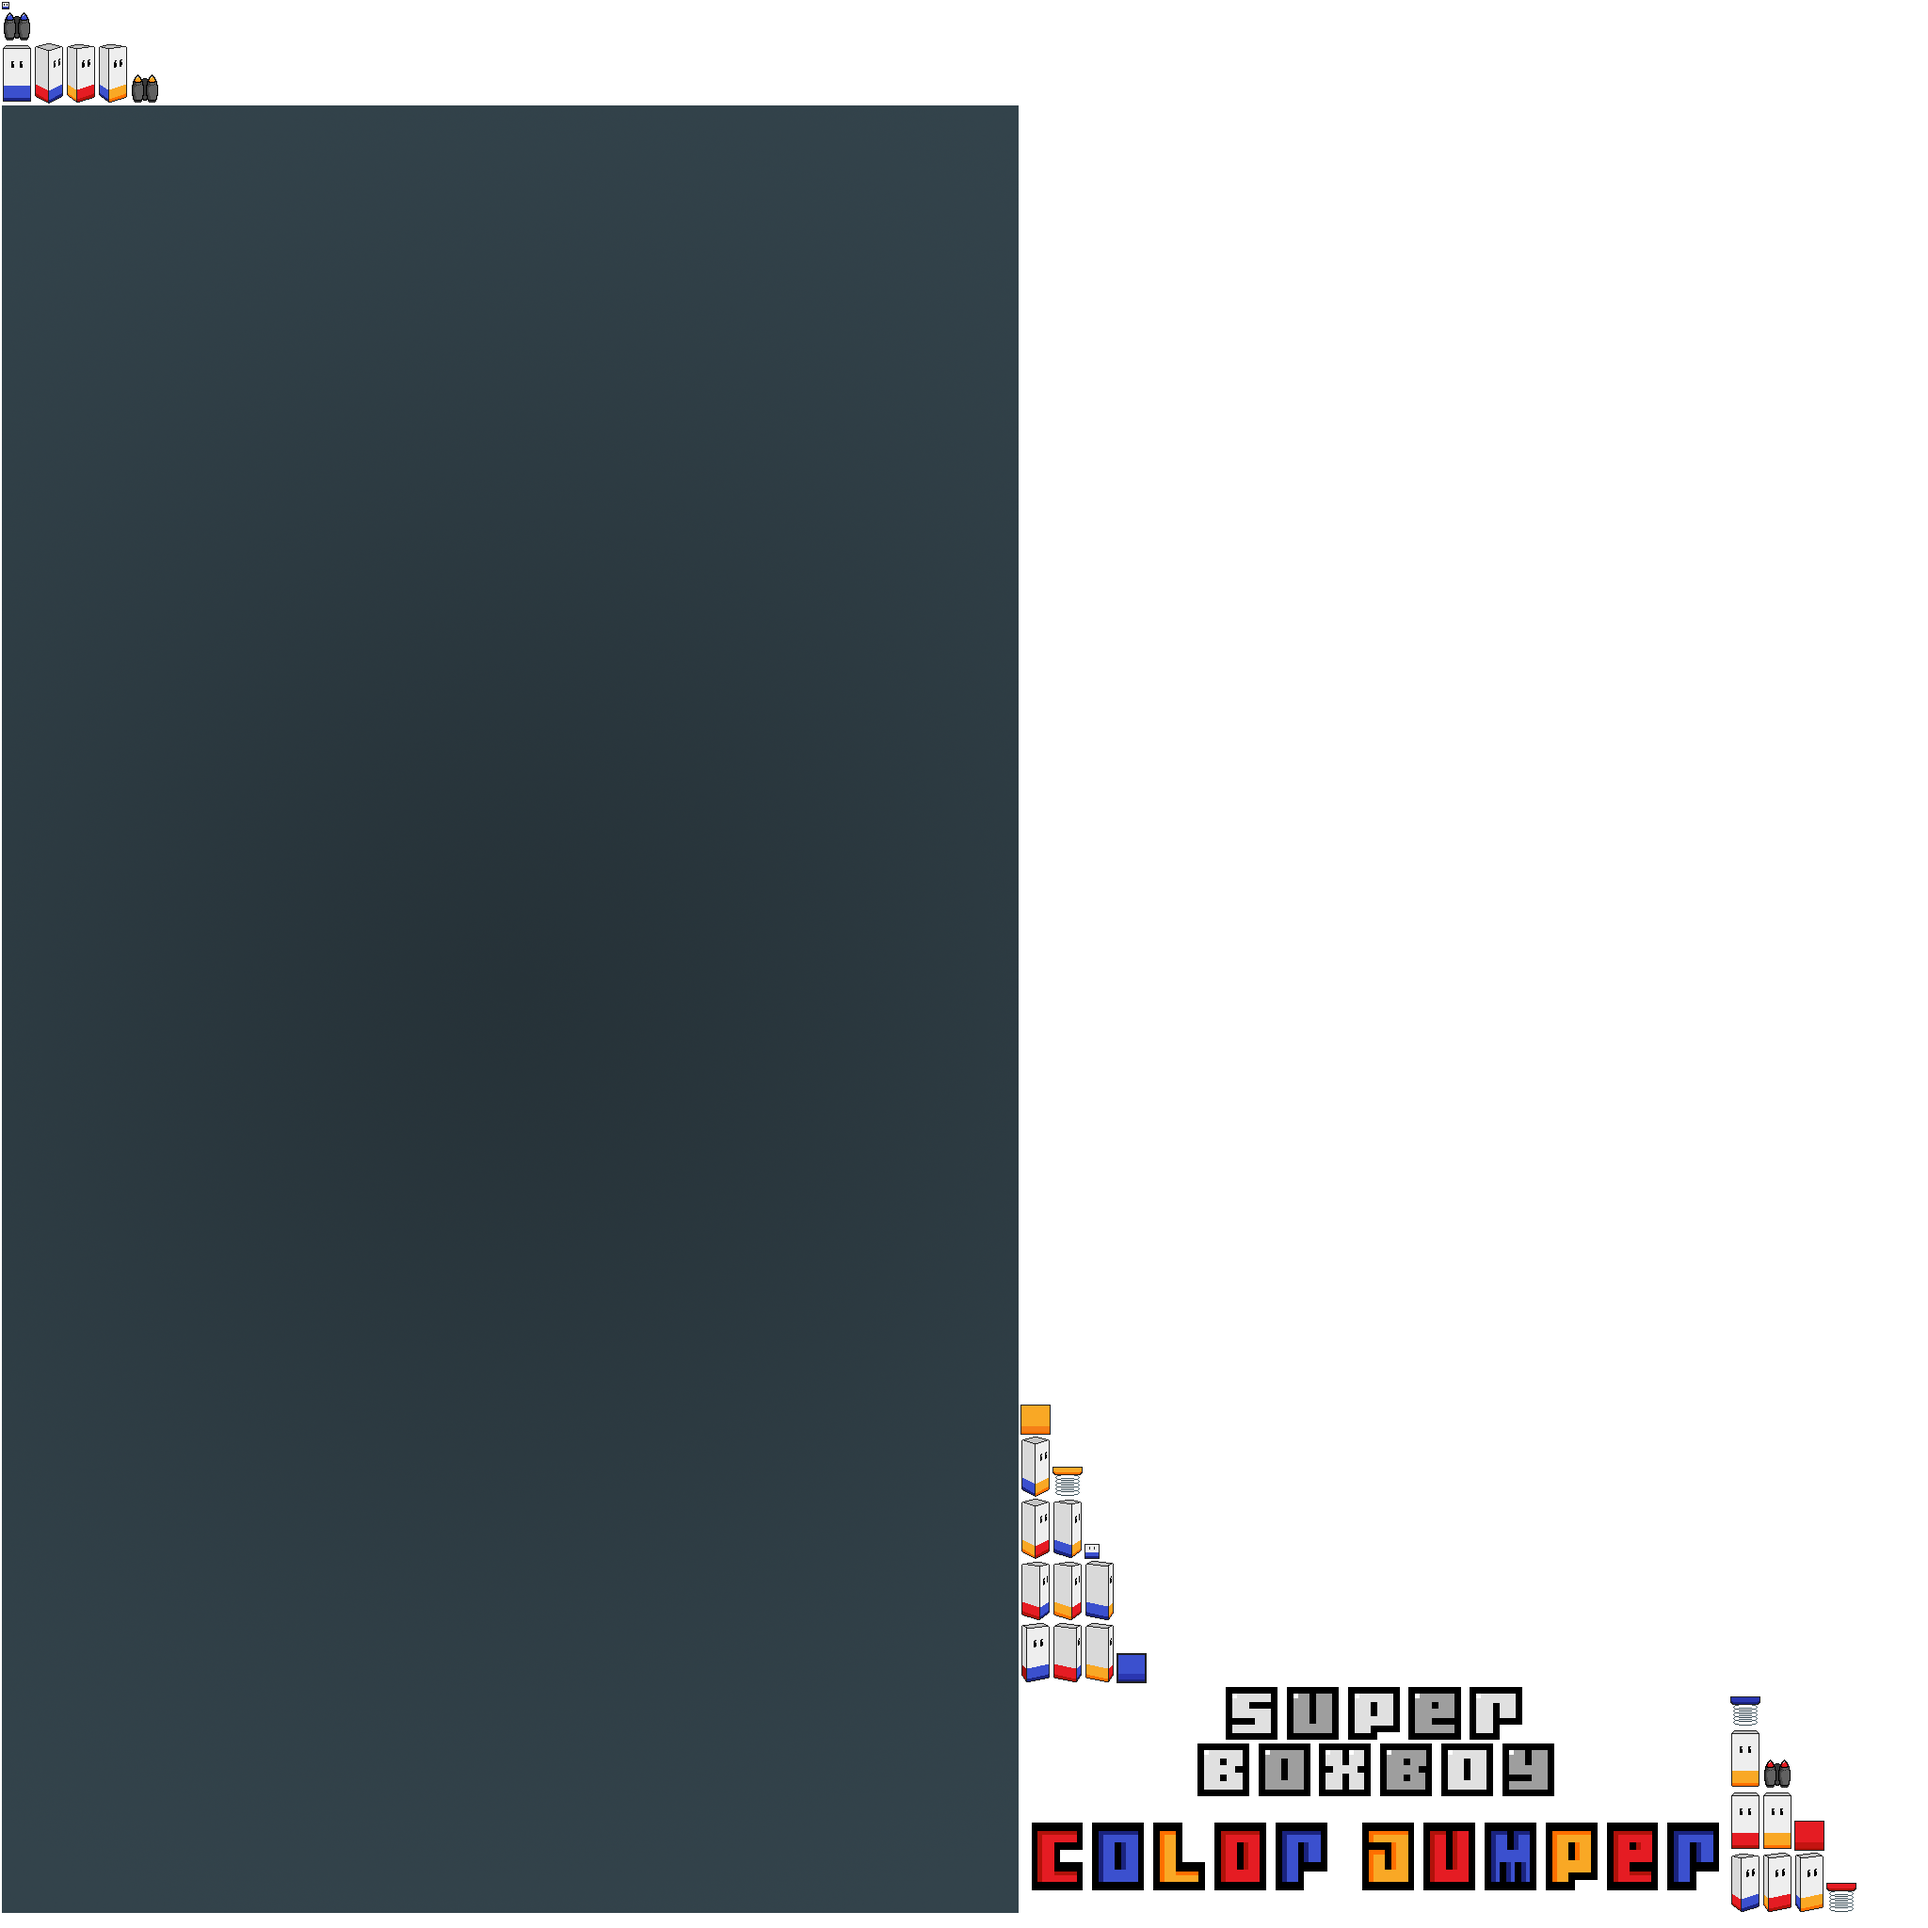
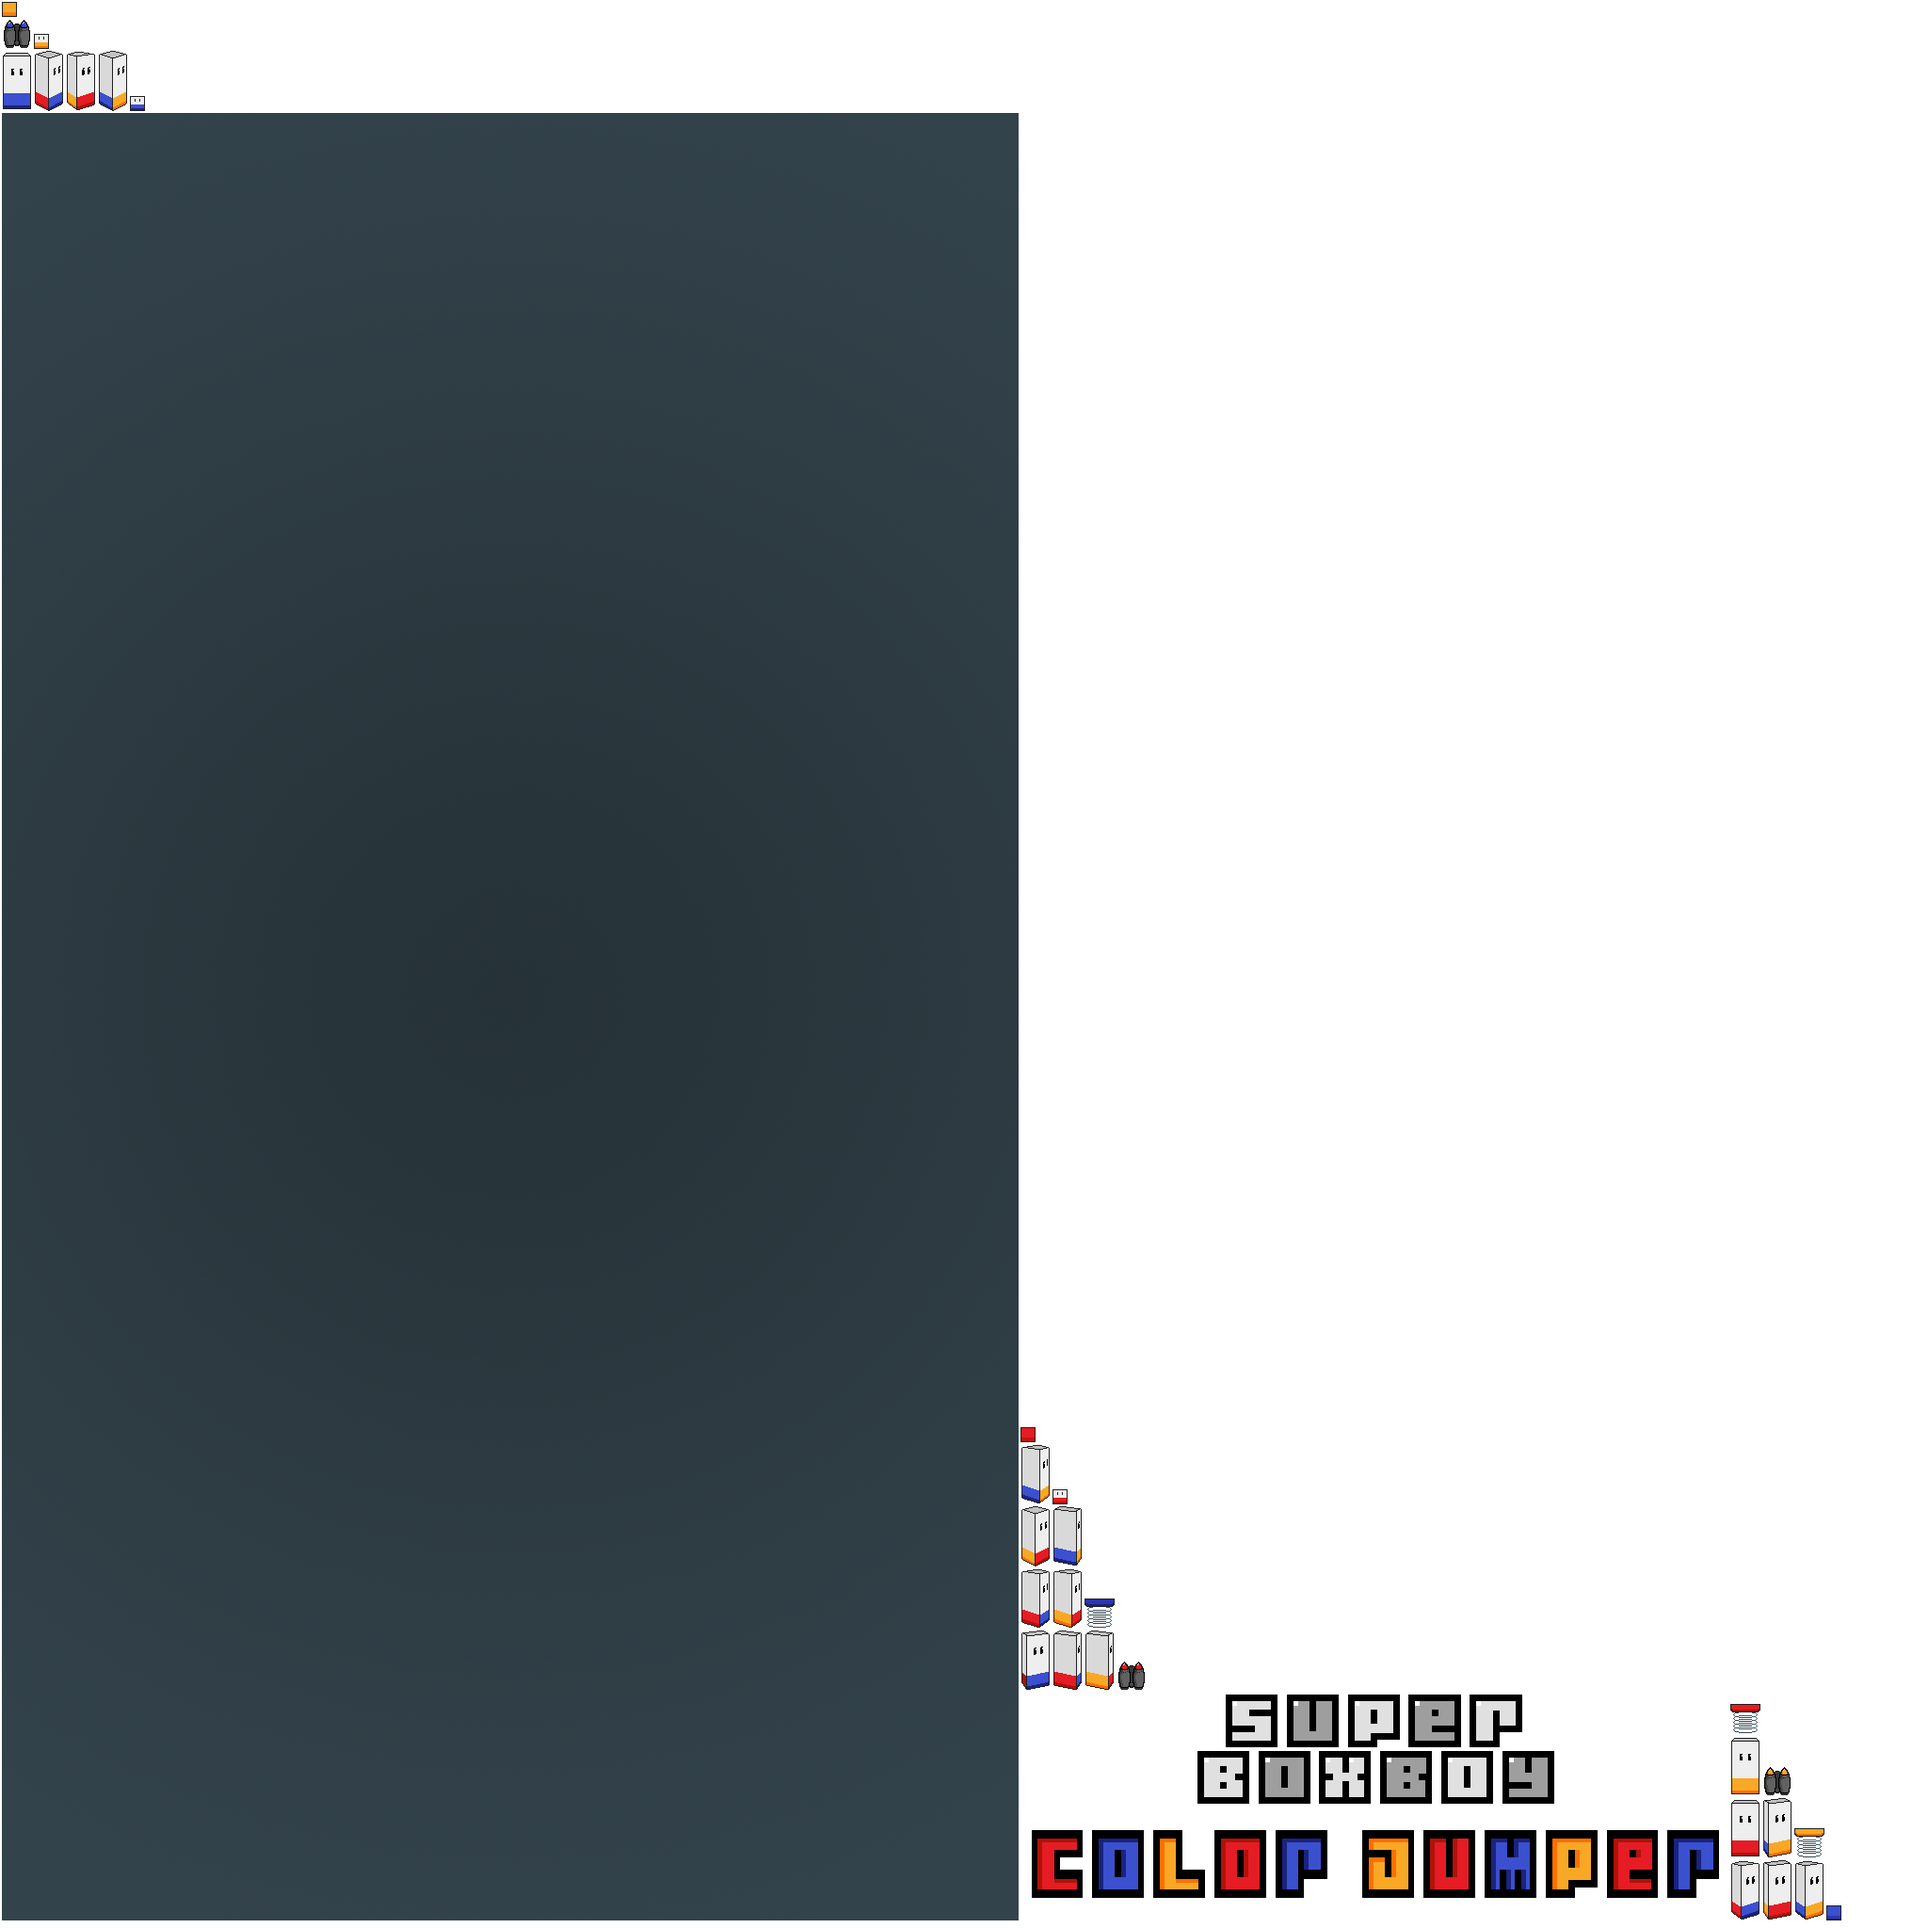
Fix menus screen

Changed region(s): [[0.0, 0.875, 0.9688, 1.0], [0.0, 0.0, 0.5312, 0.0625], [0.5312, 0.7188, 0.5938, 0.875]]

diff --git a/core/src/com/lan/jumper/ui/GameHud.java b/core/src/com/lan/jumper/ui/GameHud.java
@@ -5,15 +5,20 @@ import com.badlogic.gdx.graphics.Color;
 import com.badlogic.gdx.graphics.g2d.SpriteBatch;
 import com.badlogic.gdx.scenes.scene2d.Actor;
 import com.badlogic.gdx.scenes.scene2d.Stage;
+import com.badlogic.gdx.scenes.scene2d.ui.Button;
+import com.badlogic.gdx.scenes.scene2d.ui.ImageButton;
 import com.badlogic.gdx.scenes.scene2d.ui.Label;
 import com.badlogic.gdx.scenes.scene2d.ui.Skin;
 import com.badlogic.gdx.scenes.scene2d.ui.Table;
+import com.badlogic.gdx.scenes.scene2d.utils.ChangeListener;
 import com.badlogic.gdx.utils.Align;
 import com.badlogic.gdx.utils.Logger;
 import com.badlogic.gdx.utils.viewport.Viewport;
 import com.lan.jumper.assets.AssetDescriptors;
+import com.lan.jumper.config.GameConfig;
 import com.lan.jumper.game.ColorJumperGame;
 import com.lan.jumper.screen.GameController;
+import com.lan.jumper.screen.MenuScreen;
 
 public class GameHud {
     private static final Logger log = new Logger(GameHud.class.getSimpleName(), Logger.DEBUG);
@@ -28,6 +33,7 @@ public class GameHud {
     private GameController controller;
 
     private Label scoreLabel;
+    private Button backButton;
 
     public GameHud(ColorJumperGame game, GameController controller, Viewport viewport) {
         this.game = game;
@@ -39,6 +45,7 @@ public class GameHud {
         skin = assetManager.get(AssetDescriptors.SKIN);
 
         scoreLabel = createRetryButton();
+        backButton = createBackButton();
 
         stage.addActor(createUi());
         stage.setDebugAll(DEBUG);
@@ -52,17 +59,32 @@ public class GameHud {
         Label label = new Label("", skin);
         label.setAlignment(Align.left);
         label.setStyle(labelStyle);
-        label.setFontScale(0.8f);
+        label.setFontScale(1.1f);
 
         return label;
+    }
+
+    private Button createBackButton() {
+        Button button = new Button(skin, "back");
+        button.addListener(new ChangeListener() {
+            @Override
+            public void changed(ChangeEvent event, Actor actor) {
+                controller.goToMenu();
+            }
+        });
+        button.setWidth(GameConfig.HUD_WIDTH * 0.15f);
+        button.setHeight(GameConfig.HUD_WIDTH * 0.15f);
+        return button;
     }
 
     private Actor createUi() {
 
         Table root = new Table();
-        root.top().left();
+        root.top();
+        root.defaults().pad(10f);
 
-        root.add(scoreLabel).pad(10f);
+        root.add(backButton).left().expandX();
+        root.add(scoreLabel).right().expandX();
 
         root.setFillParent(true);
         root.pack();

diff --git a/core/src/com/lan/jumper/screen/MenuScreen.java b/core/src/com/lan/jumper/screen/MenuScreen.java
@@ -65,7 +65,7 @@ public class MenuScreen extends MenuScreenBase {
         float buttonSize = GameConfig.HUD_WIDTH * 0.2f;
         float padding = 5f;
 
-        buttonTable.defaults().pad(5f).center();
+        buttonTable.defaults().pad(padding).center();
 
         buttonTable.add(playButton)
                 .width(buttonSize * 2f + padding * 2f)
@@ -84,8 +84,6 @@ public class MenuScreen extends MenuScreenBase {
                 .height(buttonSize)
                 .colspan(1);
 
-        buttonTable.setVisible(false);
-
         Table root = new Table();
         root.setBackground(
                 new TextureRegionDrawable(atlas.findRegion(RegionNames.MAIN_BACKGROUND))
@@ -98,15 +96,19 @@ public class MenuScreen extends MenuScreenBase {
         root.setFillParent(true);
         root.pack();
 
-        float x = buttonTable.getX();
-        float y = buttonTable.getY();
-        buttonTable.setY(-GameConfig.HUD_HEIGHT);
-        buttonTable.setVisible(true);
-        buttonTable.addAction(Actions.moveTo(x, y, 0.35f, Interpolation.sineIn));
+        float yOffset = 300f;
+        buttonTable.addAction(Actions.sequence(
+                Actions.hide(),
+                Actions.moveBy(0, -yOffset),
+                Actions.show(),
+                Actions.moveBy(0, yOffset, 0.35f, Interpolation.sineIn)
+        ));
 
-        logoImage.setScale(4f);
-        logoImage.addAction(Actions.scaleTo(1f, 1f, 0.35f));
-
+        float logoScale = 4f;
+        logoImage.addAction(Actions.sequence(
+                Actions.scaleTo(logoScale,logoScale),
+                Actions.scaleTo(1f, 1f, 0.35f)
+        ));
         return root;
     }
 
@@ -132,21 +134,14 @@ public class MenuScreen extends MenuScreenBase {
         return logoImage;
     }
 
-    @Override
-    public void render(float delta) {
-        super.render(delta);
-    }
-
     private void play() {
         game.setScreen(new GameplayScreen(game));
     }
 
     private void settings() {
-        quit();
     }
 
     private void highscores() {
-        quit();
     }
 
     private void quit() {

diff --git a/core/src/com/lan/jumper/screen/GameRenderer.java b/core/src/com/lan/jumper/screen/GameRenderer.java
@@ -30,6 +30,7 @@ import com.lan.jumper.common.GameState;
 import com.lan.jumper.config.GameConfig;
 import com.lan.jumper.debug.DebugCameraController;
 import com.lan.jumper.entity.*;
+import com.lan.jumper.game.ColorJumperGame;
 import com.lan.jumper.ui.GameHud;
 import com.lan.jumper.util.GdxUtils;
 import com.lan.jumper.util.ViewportUtils;
@@ -38,6 +39,7 @@ import javax.swing.plaf.synth.Region;
 
 public class GameRenderer implements Disposable {
 
+    private ColorJumperGame game;
     private GameController controller;
 
     private DebugCameraController debugCameraController;
@@ -84,7 +86,8 @@ public class GameRenderer implements Disposable {
 
     private ParticleEffect explosion;
 
-    public GameRenderer(GameController controller) {
+    public GameRenderer(ColorJumperGame game, GameController controller) {
+        this.game = game;
         this.controller = controller;
 
         camera = new OrthographicCamera();
@@ -118,6 +121,11 @@ public class GameRenderer implements Disposable {
         handleCamera(delta);
         renderGameplay(delta);
         renderUi(delta);
+
+        if(controller.shouldGoToMenu) {
+            controller.shouldGoToMenu = false;
+            game.setScreen(new MenuScreen(game));
+        }
     }
 
     private void renderGameplay(float delta) {

diff --git a/core/src/com/lan/jumper/assets/RegionNames.java b/core/src/com/lan/jumper/assets/RegionNames.java
@@ -2,9 +2,9 @@ package com.lan.jumper.assets;
 
 public class RegionNames {
     private RegionNames () {}
-
     //gameplay atlas
     public static final String MAIN_BACKGROUND = "main-background2";
+    public static final String GAME_LOGO = "game-logo";
 
     public static final String PLATFORM_BLUE = "blue-platform";
     public static final String PLATFORM_RED = "red-platform";
@@ -18,9 +18,7 @@ public class RegionNames {
     public static final String JETPACK_RED = "red-jetpack";
     public static final String JETPACK_YELLOW = "yellow-jetpack";
 
-    public static final String PLAYER_BLUE = "blue-player-8";
-    public static final String PLAYER_RED = "blue-player-16";
-    public static final String PLAYER_YELLOW = PLAYER_BLUE;
-
-    public static final String GAME_LOGO = "game-logo";
+    public static final String PLAYER_BLUE = "blue-player";
+    public static final String PLAYER_RED = "red-player";
+    public static final String PLAYER_YELLOW = "yellow-player";
 }

diff --git a/core/src/com/lan/jumper/config/GameConfig.java b/core/src/com/lan/jumper/config/GameConfig.java
@@ -24,7 +24,7 @@ public class GameConfig {
     public static final float HUD_HEIGHT = 360f * 16f / 9f;
 
     public static final float PLAYER_WIDTH = 0.8f;
-    public static final float PLAYER_HEIGHT = PLAYER_WIDTH * 2f;
+    public static final float PLAYER_HEIGHT = PLAYER_WIDTH;
     public static final float PLAYER_MOVESPEED = 8f;
     public static final float PLAYER_JUMP_SPEED = 14f;
     public static final float PLAYER_SPRING_JUMP_SPEED = 20f;
@@ -37,7 +37,7 @@ public class GameConfig {
 
     public static final int PLATFORMS_PER_SCREEN = 10;
     public static final float PLATFORM_HEIGHT = 0.6f;
-    public static final int PLATFORM_EDGE = 2;
+    public static final int PLATFORM_EDGE = 1;
 
     public static final float SPRING_WIDTH = 0.7f;
     public static final float SPRING_HEIGHT = 0.6f;

diff --git a/core/src/com/lan/jumper/screen/GameplayScreen.java b/core/src/com/lan/jumper/screen/GameplayScreen.java
@@ -16,7 +16,7 @@ public class GameplayScreen extends ScreenAdapter implements InputProcessor  {
 
     public void show() {
         controller = new GameController(game);
-        renderer = new GameRenderer(controller);
+        renderer = new GameRenderer(game, controller);
 
         InputMultiplexer multiplexer = new InputMultiplexer();
         multiplexer.addProcessor(this);
@@ -32,10 +32,6 @@ public class GameplayScreen extends ScreenAdapter implements InputProcessor  {
 
     public void resize(int width, int height) {
         renderer.resize(width, height);
-    }
-
-    public void hide() {
-        dispose();
     }
 
     public void dispose() {

diff --git a/core/src/com/lan/jumper/screen/MenuScreenBase.java b/core/src/com/lan/jumper/screen/MenuScreenBase.java
@@ -15,8 +15,8 @@ public abstract class MenuScreenBase extends ScreenAdapter {
     protected final ColorJumperGame game;
     protected final AssetManager assetManager;
 
-    private Viewport viewport;
-    private Stage stage;
+    protected Viewport viewport;
+    protected Stage stage;
 
     public MenuScreenBase(ColorJumperGame game) {
         this.game = game;
@@ -56,11 +56,6 @@ public abstract class MenuScreenBase extends ScreenAdapter {
     @Override
     public void resize(int width, int height) {
         viewport.update(width, height, true);
-    }
-
-    @Override
-    public void hide() {
-        dispose();
     }
 
     @Override

diff --git a/core/src/com/lan/jumper/screen/GameController.java b/core/src/com/lan/jumper/screen/GameController.java
@@ -32,6 +32,8 @@ public class GameController {
 
     private Timer fallingTimer;
 
+    public boolean shouldGoToMenu;
+
     public GameController(ColorJumperGame game) {
         this.game = game;
         inputController = new InputController();
@@ -404,4 +406,6 @@ public class GameController {
     }
 
     public String getScore() { return Integer.toString(MathUtils.round(heightSoFar)); }
+
+    public void goToMenu() { shouldGoToMenu = true; }
 }

diff --git a/desktop/src/com/lan/jumper/desktop/AssetPacker.java b/desktop/src/com/lan/jumper/desktop/AssetPacker.java
@@ -18,7 +18,7 @@ public class AssetPacker {
 
         TexturePacker.process(
                 settings,
-                INPUT_PATH + "/gameplay",
+                INPUT_PATH + "/gameplay-16bit",
                 OUTPUT_PATH + "/gameplay",
                 "gameplay"
         );
